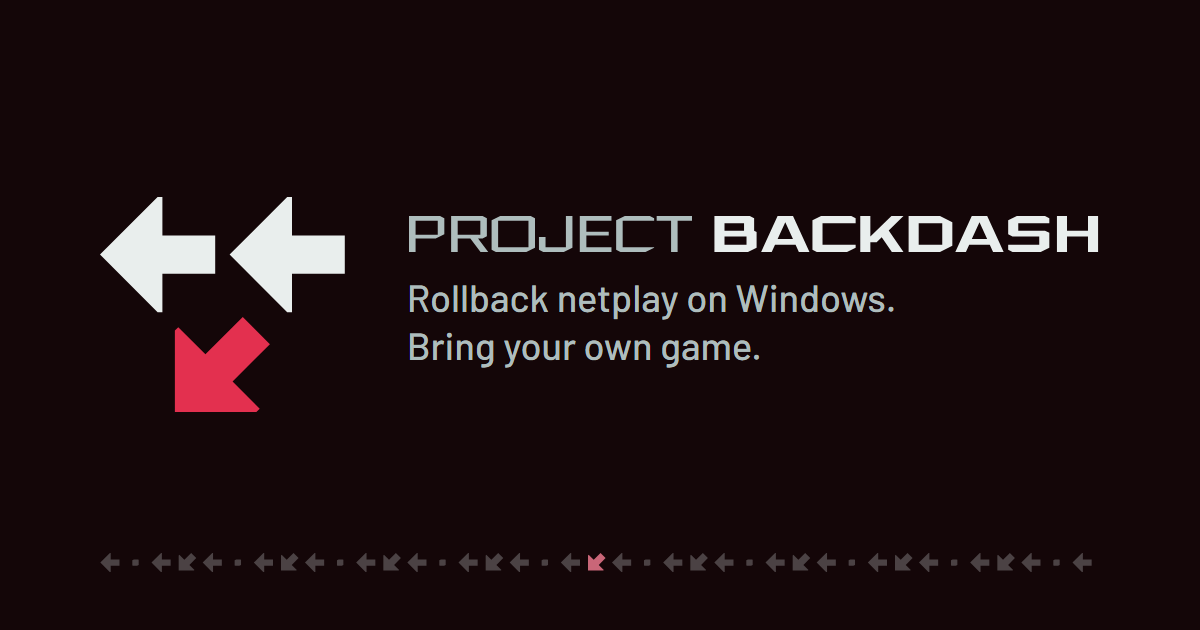
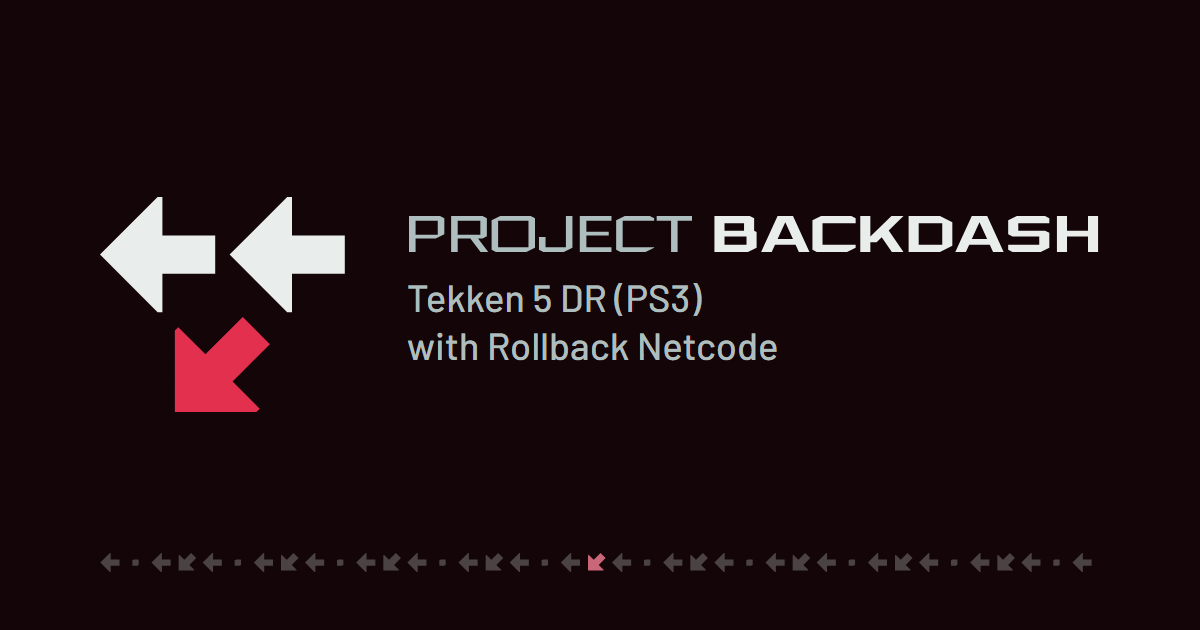
Name Tekken 5 Dark Resurrection (PS3) and rollback netcode in the home page's link preview

Changed region(s): [[0.3392, 0.4524, 0.74, 0.6032]]

diff --git a/index.html b/index.html
@@ -5,24 +5,24 @@
 <meta http-equiv="Content-Security-Policy" content="default-src 'self'; script-src 'self' 'sha256-UWvn3F//dChxdkroafa+2tmPbWHPWqYA2VX5FHogVsI='; style-src 'self' 'unsafe-inline'; img-src 'self' data:; font-src 'self'; connect-src 'self' https://lobby.backdash.gg; object-src 'none'; base-uri 'self'; form-action 'self'">
 <meta name="viewport" content="width=device-width, initial-scale=1">
 <script>(function(){var d=document.documentElement,m=/[?&]theme=(light|dark)(?:&|$)/.exec(location.search),t=m&&m[1];if(!t){try{t=localStorage.getItem("pbd-theme")}catch(e){}}if(t==="light"||t==="dark")d.setAttribute("data-theme",t)})();</script>
-<title>Project Backdash: Tekken 5 Dark Resurrection online, with rollback</title>
-<meta name="description" content="Free rollback netplay for Tekken 5 Dark Resurrection on Windows, with your own copy of the game: online lobbies, Ranked, Practice and replays. See who is playing, the top ten and the latest Ranked sets.">
+<title>Project Backdash: Tekken 5 Dark Resurrection (PS3) with Rollback Netcode</title>
+<meta name="description" content="Rollback Netplay for Tekken 5 Dark Resurrection (PS3) on Windows, Ranked matchmaking, Lobbies with Spectating, Practice and Replays.">
 <link rel="canonical" href="https://backdash.gg/">
 <meta name="color-scheme" content="dark">
 <meta name="theme-color" content="#140608">
 <meta property="og:type" content="website">
 <meta property="og:site_name" content="Project Backdash">
-<meta property="og:title" content="Project Backdash: Tekken 5 Dark Resurrection online, with rollback">
-<meta property="og:description" content="Free rollback netplay for Tekken 5 Dark Resurrection on Windows, with your own copy of the game: online lobbies, Ranked, Practice and replays. See who is playing, the top ten and the latest Ranked sets.">
+<meta property="og:title" content="Project Backdash: Tekken 5 Dark Resurrection (PS3) with Rollback Netcode">
+<meta property="og:description" content="Rollback Netplay for Tekken 5 Dark Resurrection (PS3) on Windows, Ranked matchmaking, Lobbies with Spectating, Practice and Replays.">
 <meta property="og:url" content="https://backdash.gg/">
-<meta property="og:image" content="https://backdash.gg/og.png">
+<meta property="og:image" content="https://backdash.gg/og.png?v=20261107">
 <meta property="og:image:width" content="1200">
 <meta property="og:image:height" content="630">
 <meta property="og:image:alt" content="Project Backdash">
 <meta name="twitter:card" content="summary_large_image">
-<meta name="twitter:title" content="Project Backdash: Tekken 5 Dark Resurrection online, with rollback">
-<meta name="twitter:description" content="Free rollback netplay for Tekken 5 Dark Resurrection on Windows, with your own copy of the game: online lobbies, Ranked, Practice and replays. See who is playing, the top ten and the latest Ranked sets.">
-<meta name="twitter:image" content="https://backdash.gg/og.png">
+<meta name="twitter:title" content="Project Backdash: Tekken 5 Dark Resurrection (PS3) with Rollback Netcode">
+<meta name="twitter:description" content="Rollback Netplay for Tekken 5 Dark Resurrection (PS3) on Windows, Ranked matchmaking, Lobbies with Spectating, Practice and Replays.">
+<meta name="twitter:image" content="https://backdash.gg/og.png?v=20261107">
 <meta name="twitter:image:alt" content="Project Backdash">
 <link rel="icon" href="/favicon.ico?v=b80dc6ce2f" sizes="32x32">
 <link rel="icon" href="/favicon.svg?v=b8173292d8" type="image/svg+xml">
